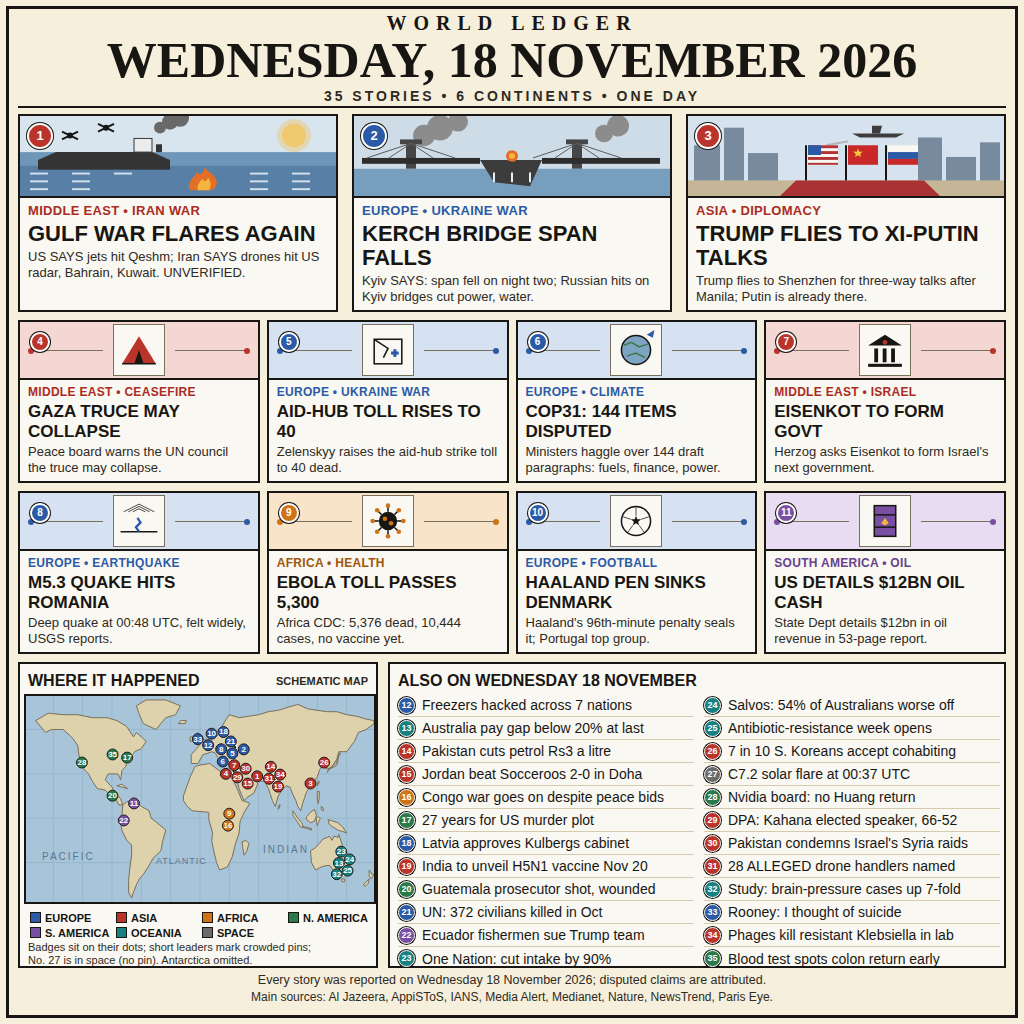
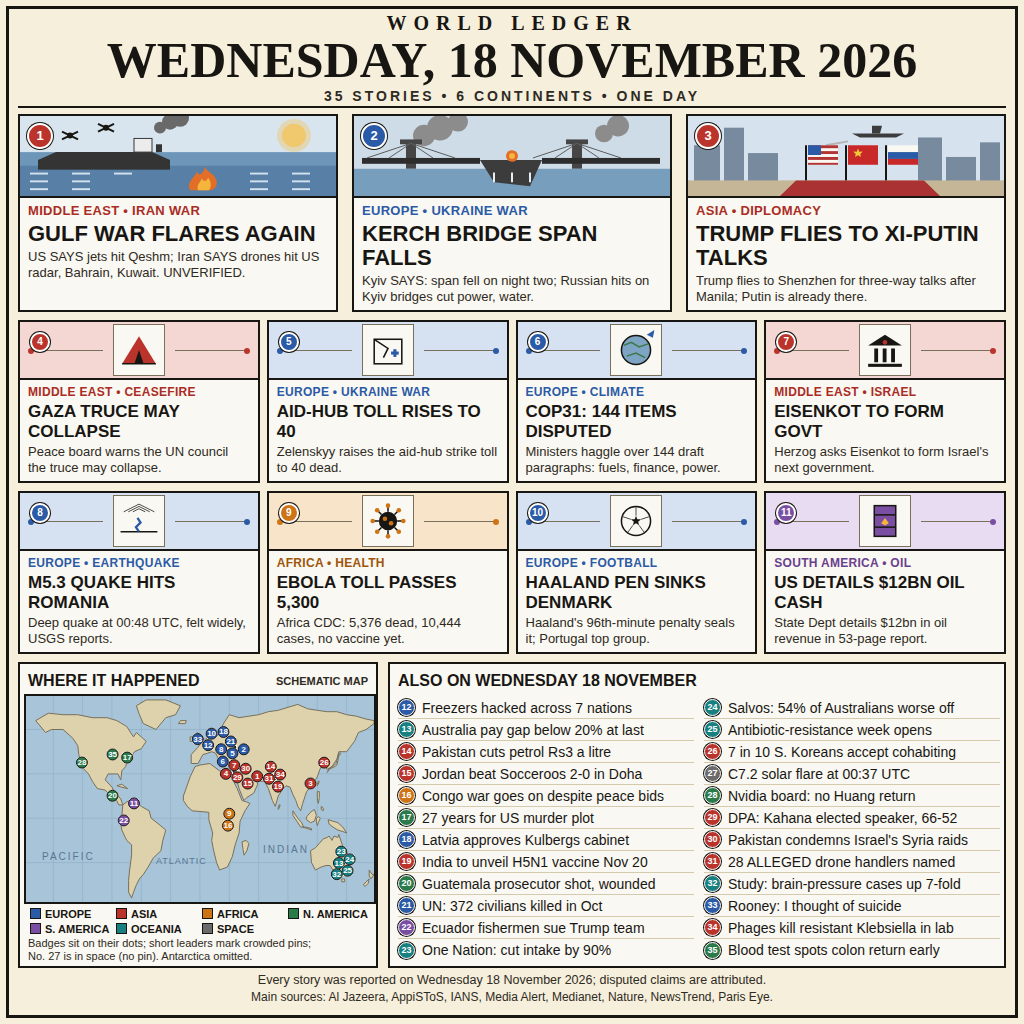
news-image-20261118: bottom-band breathing room, last list row + map feet clear of borders (HQ-N18R-#3)
List rows 23->22px, list-cols top 30->33px (centred block, bottom clearance ~8.5px); legend 246->242px, map feet 277/290->273/286px (bottom clearance 5px). Band height, fonts, text, counts, pin positions unchanged. Gates: 3x bottom-edge crops + 3x map crop + 300/400px eye-judged, mechanical audit pass, determinism pass.

Changed region(s): [[0.0312, 0.6562, 0.6562, 0.9375], [0.6875, 0.6562, 0.9688, 0.9688]]

diff --git a/render.html b/render.html
@@ -102,7 +102,7 @@
     font-size: 11px; line-height: 16px; font-weight: 700; color: #2E2A23;
   }
   #map { position: absolute; left: 4px; top: 30px; width: 352px; height: 210px; }
-  .legend { position: absolute; left: 10px; top: 246px; width: 344px; display: flex; flex-wrap: wrap; }
+  .legend { position: absolute; left: 10px; top: 242px; width: 344px; display: flex; flex-wrap: wrap; }
   .legend .item { width: 86px; height: 15px; display: flex; align-items: center; }
   .legend .sw { width: 11px; height: 11px; flex: none; border: 1px solid #181612; margin-right: 4px; }
   .legend .nm { font-size: 11px; line-height: 14px; font-weight: 700; }
@@ -110,11 +110,11 @@
     position: absolute; left: 8px; width: 344px;
     font-size: 11px; line-height: 13px; color: #2E2A23;
   }
-  .map-foot.a { top: 277px; }
-  .map-foot.b { top: 290px; }
-  .list-cols { position: absolute; left: 8px; top: 30px; width: 602px; height: 276px; display: flex; gap: 10px; }
+  .map-foot.a { top: 273px; }
+  .map-foot.b { top: 286px; }
+  .list-cols { position: absolute; left: 8px; top: 33px; width: 602px; height: 264px; display: flex; gap: 10px; }
   .list-col { flex: 1; }
-  .lrow { height: 23px; display: flex; align-items: center; border-bottom: 1px solid #D6CAAC; }
+  .lrow { height: 22px; display: flex; align-items: center; border-bottom: 1px solid #D6CAAC; }
   .lrow:last-child { border-bottom: none; }
   .lchip {
     width: 17px; height: 17px; flex: none; border-radius: 50%;
